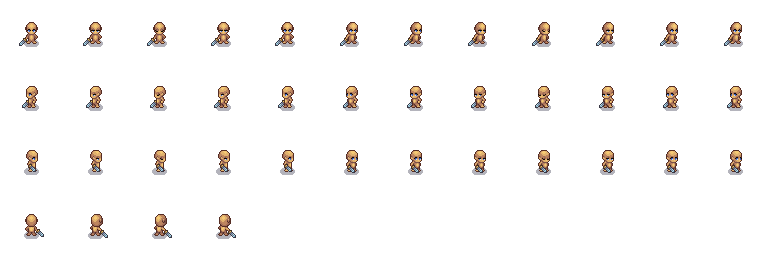
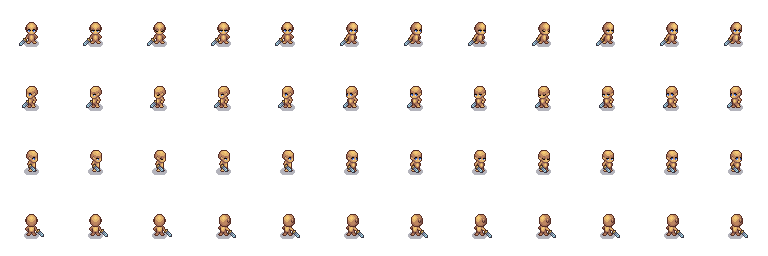
can equip unequip helmet dynamically, can attack

diff --git a/shooter/src/entity.py b/shooter/src/entity.py
@@ -1,12 +1,23 @@
 import os
+import time
 import pygame
 
 from src.animation import AnimatedSprite
 
 class Entity(AnimatedSprite):
-    def __init__(self, name, x, y):
+    def __init__(self, name, x, y, hpmax=100, armor=10, speed=10, manamax=10, attack=86):
         super().__init__(name)
         self.equipement = {}
+        self.stats = {
+        "hpmax" : hpmax,
+        "armor" : armor,
+        "speed" : speed,
+        "manamax" : manamax,
+        "attack" : attack,
+        "hp" : hpmax,
+        "mana" : manamax,
+        }
+
         self.change_animation("down")
         self.rect = self.image.get_rect()
         self.position = [x, y]
@@ -46,8 +57,10 @@ class Player(Entity):
             "right": {},
             "up": {},
         }
-        self.current_action = "Unarmed_Walk"
-        
+        self.current_action = "Unarmed_Idle"
+        self.attacking1 = False
+        self.attack_timer = 0  # Timer to control attack animation speed
+
         self.get_equipement_paths()
         for equipement in self.equipement_action_dict.keys():
             for action, path in self.equipement_action_dict[equipement].items():
@@ -102,17 +115,49 @@ class Player(Entity):
                 images.append(image)
             self.equipement_images[directions[y // size[1]]][action][equipement] = images
     
+    def attack1(self):
+        if self.attacking1:
+            return  # Break if already attacking
+        self.attacking1 = True
+        self.current_action = "Sword_Walk_Attack"
+        self.animation_index = 0
+        self.attack_timer = time.time()  # Start attack timer
+
+        for equipement, sprite in self.equipement_sprites.items():
+            if self.equipement[equipement]:  # If the equipment is active
+                sprite.update()  # Force update equipment sprite
 
     def update_equipement(self):
         """Active ou désactive les équipements en fonction de leur état."""
         for equipement, equipped in self.equipement.items():
             sprite = self.equipement_sprites[equipement]
             sprite.visible = equipped
+            sprite.update()
 
     def update(self):
         """Met à jour le joueur et ses équipements."""
         super().update()
         self.update_equipement()
+        print(self.attacking1, self.animation_index)
+        if self.attacking1:
+            if time.time() - self.attack_timer > 0.05:  # Change de frame toutes les 0.1s
+                self.attack_timer = time.time()  # Réinitialise le timer
+                self.animation_index += 1
+
+                # Vérifie si l'animation est terminée
+                if self.animation_index >= len(self.images[self.current_direction][self.current_action]):
+                    self.attacking1 = False  # Fin de l'attaque
+                    self.current_action = "Unarmed_Walk"
+                    self.animation_index = 0  # Remet à la première frame
+                else:
+                    # Met à jour l'image du joueur
+                    self.image = self.images[self.current_direction][self.current_action][self.animation_index]
+                    self.image.set_colorkey([0, 0, 0])
+
+                    # Met à jour l'équipement
+                    for equipement, sprite in self.equipement_sprites.items():
+                        if self.equipement[equipement]:  
+                            sprite.image = sprite.images[self.current_direction][self.current_action][self.animation_index]
 
 
 class EquipmentSprite(pygame.sprite.Sprite):
@@ -124,11 +169,11 @@ class EquipmentSprite(pygame.sprite.Sprite):
         self.image = self.images[self.player.current_direction][self.player.current_action][0] 
         self.rect = self.image.get_rect()
         self.feet = player.feet
-        self.visible = False
+        self.visible = False  # Equipement not visible if unequipped
 
     def update(self):
         if not self.visible:
-            self.image.set_alpha(0)  # Rendre invisible
+            self.image = pygame.Surface((0, 0)) # Rendre invisible
             return
         
         direction = self.player.current_direction  

diff --git a/shooter/src/game.py b/shooter/src/game.py
@@ -3,7 +3,7 @@ import pytmx.util_pygame
 
 from src.map import MapManager
 from src.entity import Entity, Player
-
+from src.ath import Ath
 
 class Game:
     def __init__(self):
@@ -16,25 +16,37 @@ class Game:
 
         
         self.map_manager = MapManager(self.screen, self.player)
+        self.ath = Ath(self.player, )
 
-    def handle_input(self):
+    def handle_continuous_input(self):
         pressed = pygame.key.get_pressed()
+        left_click, mouse_click, right_click = pygame.mouse.get_pressed()
+        input = 0
+        if self.player.attacking1:
+            return
         if pressed[pygame.K_z]:
             self.player.move_up()
-            self.player.change_animation("up")
+            self.player.change_animation("up", action="Unarmed_Walk")
+            input += 1
         if pressed[pygame.K_q]:
             self.player.move_left()
-            self.player.change_animation("left")
+            self.player.change_animation("left", action="Unarmed_Walk")
+            input += 1
         if pressed[pygame.K_s]:
             self.player.move_down()
-            self.player.change_animation("down")
+            self.player.change_animation("down", action="Unarmed_Walk")
+            input += 1
         if pressed[pygame.K_d]:
             self.player.move_right()
-            self.player.change_animation("right")
-        if pressed[pygame.K_SPACE]:
-            self.player.equipement["Helmet"] = 1 - self.player.equipement["Helmet"]
-            # self.player.update_equipements()
-
+            self.player.change_animation("right", action="Unarmed_Walk")
+            input += 1
+        # if pressed[pygame.K_SPACE]:
+        #     self.player.equipement["Helmet"] = 1 - self.player.equipement["Helmet"]
+        #     input += 1
+        if left_click:
+            self.player.attack1()
+        # if input == 0:
+        #     self.player.change_animation(self.player.current_direction, action="Unarmed_Idle")
 
     def update(self):
         self.map_manager.update()
@@ -44,14 +56,34 @@ class Game:
         running = True
         while running:
             self.player.save_position()
-            self.handle_input()
+            self.handle_continuous_input()
             
             self.update()
             self.map_manager.draw()
+            self.ath.render(self.screen)
 
             pygame.display.flip()
 
             for event in pygame.event.get():
                 if event.type == pygame.QUIT:
                     running = False
+                if event.type == pygame.KEYDOWN:
+                    if event.key == pygame.K_SPACE:
+                    #     print("toto")
+                        self.player.equipement["Helmet"] = 1 - self.player.equipement["Helmet"]
+                    if event.key == pygame.MOUSEBUTTONDOWN:
+                        self.player.attack1()
+                    #     self.player.change_animation("up", action="Sword_Walk")
+                    # if event.key == pygame.K_q:
+                    #     self.player.move_left()
+                    #     self.player.change_animation("left", action="Sword_Walk")
+                    # if event.key == pygame.K_s:
+                    #     self.player.move_down()
+                    #     self.player.change_animation("down", action="Sword_Walk")
+                    # if event.key == pygame.K_d:
+                    #     self.player.move_right()
+                    #     self.player.change_animation("right", action="Sword_Walk")
+
+                        
+
             clock.tick(60)

diff --git a/shooter/src/ath.py b/shooter/src/ath.py
@@ -1,0 +1,41 @@
+import pygame
+
+class Ath():
+    def __init__(self, player):
+        self.player = player
+        self.box = pygame.image.load("shooter/assets/dialogs/ath.png").convert_alpha()
+        self.update_hp_bar()
+        self.update_mana_bar()
+        self.update_stats()
+        
+
+    def render(self, screen):
+        self.box_scaled = pygame.transform.scale(self.box, (self.box.get_width() * 2, self.box.get_height() * 2))
+        screen_width, screen_height = screen.get_size() 
+        box_width, box_height = self.box_scaled.get_size() 
+
+        x = (screen_width - box_width) // 2  
+        y = screen_height - box_height  
+
+        screen.blit(self.box_scaled, (x, y))
+
+
+    def update_hp_bar(self):
+        self.hpmax_bar = pygame.draw.rect(self.box, (255, 0, 0,255), (80, 28, 113,4))
+        width = int((self.player.stats["hp"] / self.player.stats["hpmax"]) * self.hpmax_bar.width) - 50
+        self.hb_bar = pygame.draw.rect(self.box, (0, 255, 0,255), (80, 28, width,4))
+
+    def update_mana_bar(self):
+        self.manamax_bar = pygame.draw.rect(self.box, (255, 0, 0,255), (80, 35, 113, 4))
+        width = int((self.player.stats["mana"] / self.player.stats["manamax"]) * self.manamax_bar.width) - 2
+        self.mana_bar = pygame.draw.rect(self.box, (0, 0, 255,255), (80, 35, width, 4))
+    
+    def update_stats(self):
+        self.font = pygame.font.Font(None, 10)  
+        color = (67, 56, 37)
+        attack_text = self.font.render(str(self.player.stats["attack"]), True, color)
+        armor_text = self.font.render(str(self.player.stats["armor"]), True, color)
+        speed_text = self.font.render(str(self.player.stats["speed"]), True, color)
+        self.box.blit(attack_text, (16, 9))
+        self.box.blit(armor_text, (35, 9))
+        self.box.blit(speed_text, (35, 24))

diff --git a/shooter/src/animation.py b/shooter/src/animation.py
@@ -19,6 +19,7 @@ class AnimatedSprite(pygame.sprite.Sprite):
             "up": {},
         }
         self.current_direction = "down"
+        self.current_action = "Unarmed_Idle"
 
         for key, path in self.dict_action_path.items():
             self.get_images(key, path, [64, 64])
@@ -50,10 +51,14 @@ class AnimatedSprite(pygame.sprite.Sprite):
             self.images[directions[y // size[1]]][key] = images
 
     def change_animation(self, direction, action="Unarmed_Walk"):
+        if self.current_direction != direction or self.current_action != action:
+            self.animation_index = 0 
+        
+        self.current_direction = direction
+        self.current_action = action
         self.image = self.images[direction][action][self.animation_index]
         self.image.set_colorkey([0, 0, 0])
-        self.current_direction = direction
-        self.clock += self.speed * 15
+        self.clock += self.speed * 10
         if self.clock % 100 == 0:
             self.animation_index = (self.animation_index + 1) % len(self.images[direction][action])
             

diff --git a/shooter/main.py b/shooter/main.py
@@ -12,14 +12,13 @@ if __name__ == "__main__":
     
 
 
+# TODO imporve :
+# - be able to equip or unequip items ... (make them more smooth)
+# - ATH for player (HP, mana, XP, defense, spd) (need imprevements ...)
+# - attack with sword (need to add with equipement)
+
 # TODO :
-# - be able to equip or unequip items
-# - ATH for player (HP, mana, XP, defense, spd)
-# - attack with sword
 # - spawn ennemies
 # - moove ennemies
 # - attack ennemies
 # - take damage
-# - attack with sword
-# - attack with sword
-# - attack with sword

diff --git a/shooter/notes.md b/shooter/notes.md
@@ -1,3 +1,63 @@
+# Project Notes
+
+## Classes
+
+### **Game**
+* Attributes:
+    - **screen** : *Main object to display*
+    - **all_sprites** : *pygame.sprite.Group object containing all dynamic objects*
+    - **player** : *Main character of the game. From class Player*
+    - **map_manager** : *Handle the environment where the player is. From class MapManager*
+
+* Methods:
+    - **handle_input**() : *Loop over pressed keys and make something depending on which key is pressed*
+    - **update**() : *Update the game, mainly calling map_manager.update()*
+    - **run**() : *Application loop, handle fps and calling game functions in the right order*
+
+
+### **MapManager**
+* Dataclasses :
+    - **Portal**(from_world: str, from_point: str, dest_world: str, dest_point: str) : *Attributes for portal dataclass used in MapManager to handle portals between points (used when changing world)*
+
+    - **Map**(name: str, walls: list[pygame.Rect], group: pyscroll.PyscrollGroup, tmx_data: pytmx.TiledMap, portals: list[Portal]) : *Attributes for Map dataclass used in MapManager to store all maps in the game (houses, dungeons, etc...)*
+
+* Attributes:
+    - **maps**
+    - **screen** 
+    - **player**
+    - **current_map** 
+
+* Methods :
+    - **check_collisions**():
+    - **teleport_player**(name): *Name is the point where to teleport the player*
+    - **register_map**(name, portals=[]): *Store a map with a name and portals*
+    - **get_map**(): 
+    - **get_group**(): 
+    - **get_walls**(): 
+    - **get_object**(name): 
+    - **draw**():
+    - **update**():
+
+
+
+
+### Game
+* attributes:
+    - **screen** : **
+    - **all_sprites** : **
+    - **player** : **
+    - **map_manager** : **
+
+* Methods:
+    - **handle_input**() : **
+    - **update**() : **
+    - **run**() : **
+
+
+
+
+
+
 # Pygame Cheat Sheet
 
 ## 1. Initialisation de Pygame
